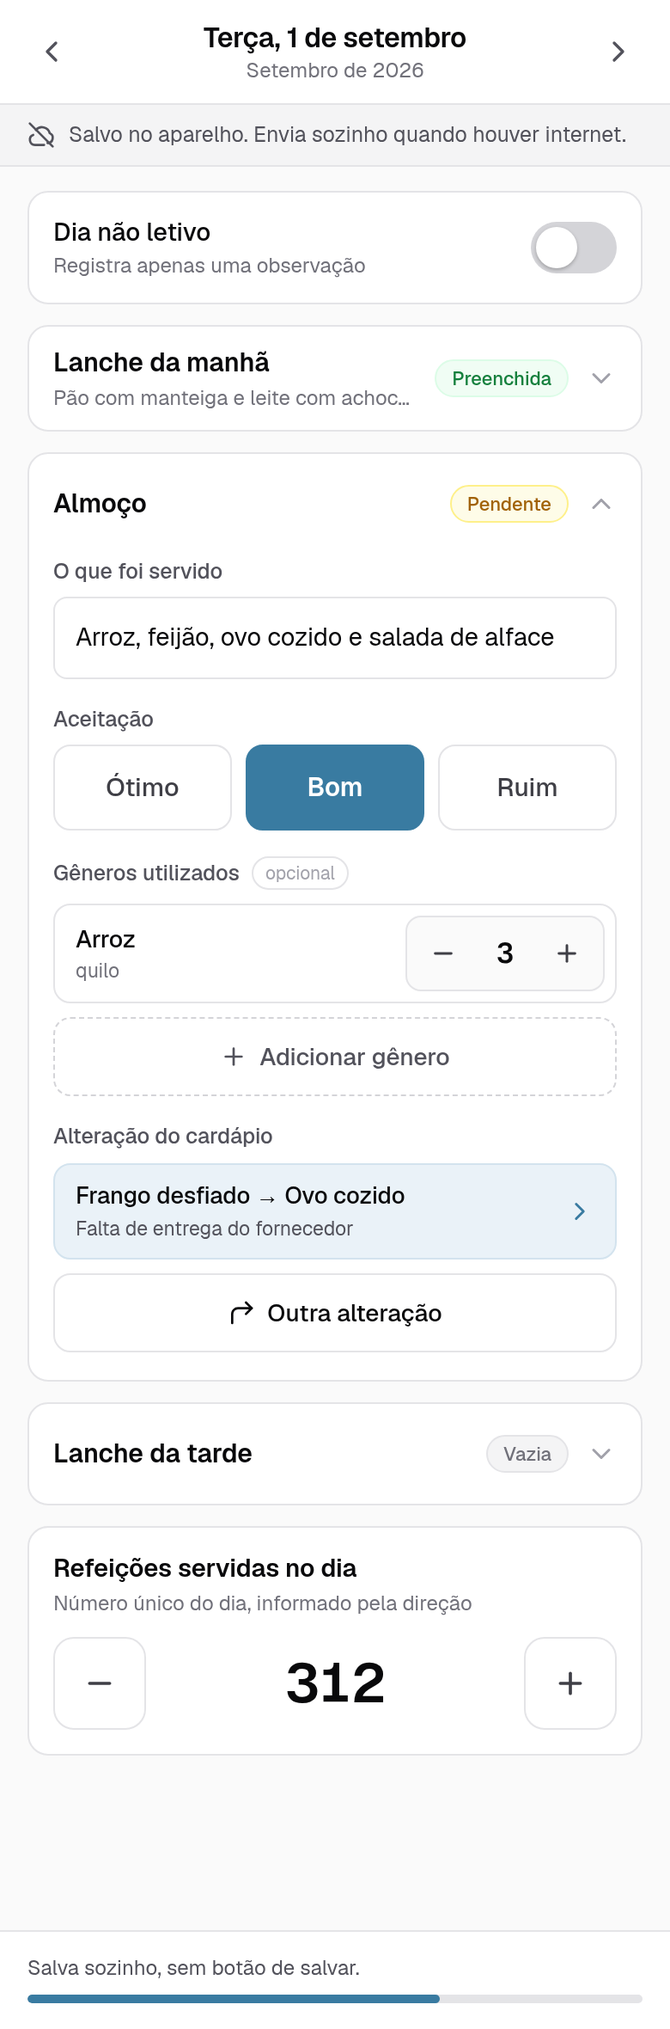
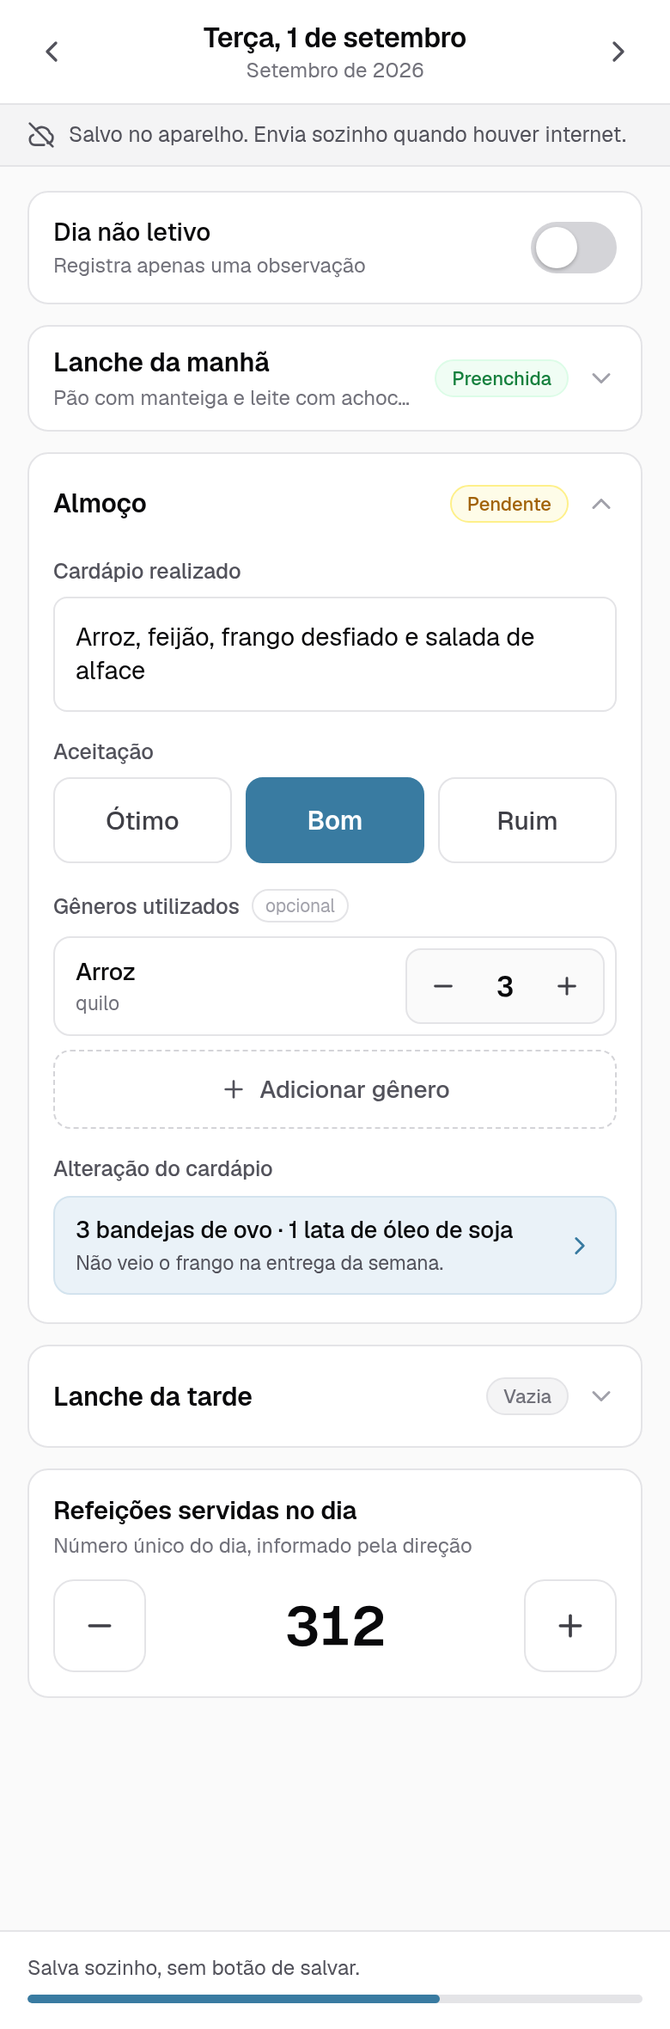
docs: corrige o registro de alteração do cardápio conforme o formulário oficial (closes #47) (#48)
A modelagem da E4 foi conferir o formulário oficial e desmentiu a US002.
Ela afirmava que a alteração tem três campos — item previsto, item servido
e justificativa — e que esse formato replicava o que elas escrevem à mão.
Não replica: o formulário pede os gêneros e as quantidades usados na troca
e uma justificativa em texto livre, e em nenhum lugar pergunta o que saiu.

A refeição passa a permanecer fiel ao cardápio previsto, na descrição e na
aceitação, mesmo quando houve troca — é essa permanência que dá sentido à
justificativa. O rótulo do campo virou "Cardápio realizado", como a coluna
do documento, porque "O que foi servido" prometia o contrário.

Some o botão "Outra alteração": a justificativa cobre a modificação inteira
e os gêneros são uma lista, então duas trocas na mesma refeição são um
registro só.

Alcance: US002 (histórias e backlog), decisão 8 da E3, telas 3 e 3a no
canvas versionado e os PNGs reexportados. A ideação da E1 fica como está —
é registro do que se imaginou na época, não requisito.

diff --git a/design/telas/AlteracaoCardapio.dc.html b/design/telas/AlteracaoCardapio.dc.html
@@ -30,48 +30,61 @@
 
   <div style="padding: 16px; display: flex; flex-direction: column; gap: 16px;">
 
-    <div style="display: flex; flex-direction: column; gap: 7px;">
-      <span style="font-size: 12.5px; font-weight: 500; color: #52525b;">Item previsto no cardápio</span>
-      <div style="min-height: 48px; border: 1px solid #e4e4e7; border-radius: 10px; padding: 13px 14px; font-size: 15px; background: #ffffff;">Frango desfiado</div>
+    <div style="display: flex; align-items: flex-start; gap: 8px; padding: 12px 14px; border-radius: 10px; background: #eaf2f8; border: 1px solid #d3e3ee; color: #3f3f46;">
+      <svg width="16" height="16" viewBox="0 0 24 24" fill="none" stroke="#397ba1" stroke-width="2" stroke-linecap="round" stroke-linejoin="round" style="flex-shrink: 0; margin-top: 1px;"><circle cx="12" cy="12" r="10"></circle><path d="M12 16v-4"></path><path d="M12 8h.01"></path></svg>
+      <span style="font-size: 12.5px; line-height: 1.45;">O almoço continua registrado como o cardápio previsto. Aqui vão só os gêneros que você usou no lugar.</span>
     </div>
 
-    <div style="display: flex; flex-direction: column; gap: 7px;">
-      <span style="font-size: 12.5px; font-weight: 500; color: #52525b;">Item servido no lugar</span>
-      <div style="min-height: 48px; border: 1px solid #e4e4e7; border-radius: 10px; padding: 13px 14px; font-size: 15px; background: #ffffff;">Ovo cozido</div>
+    <div style="display: flex; flex-direction: column; gap: 8px;">
+      <span style="font-size: 12.5px; font-weight: 500; color: #52525b;">Gêneros utilizados na troca</span>
+
+      <div style="display: flex; align-items: center; gap: 10px; min-height: 52px; border: 1px solid #e4e4e7; border-radius: 10px; padding: 6px 6px 6px 12px; background: #ffffff;">
+        <div style="flex-grow: 1; display: flex; flex-direction: column; gap: 2px; min-width: 0;">
+          <span style="font-size: 14px; font-weight: 500;">Ovo</span>
+          <span style="font-size: 11.5px; color: #71717a;">bandeja</span>
+        </div>
+        <div style="display: flex; align-items: center; gap: 2px; border: 1px solid #e4e4e7; border-radius: 9px; background: #fafafa; padding: 2px;">
+          <button style="width: 38px; height: 38px; display: flex; align-items: center; justify-content: center; border: none; background: transparent; border-radius: 7px; color: #3f3f46;"><svg width="16" height="16" viewBox="0 0 24 24" fill="none" stroke="currentColor" stroke-width="2.2" stroke-linecap="round"><path d="M5 12h14"></path></svg></button>
+          <span style="min-width: 30px; text-align: center; font-size: 16px; font-weight: 600; font-variant-numeric: tabular-nums;">3</span>
+          <button style="width: 38px; height: 38px; display: flex; align-items: center; justify-content: center; border: none; background: transparent; border-radius: 7px; color: #3f3f46;"><svg width="16" height="16" viewBox="0 0 24 24" fill="none" stroke="currentColor" stroke-width="2.2" stroke-linecap="round"><path d="M12 5v14"></path><path d="M5 12h14"></path></svg></button>
+        </div>
+      </div>
+
+      <div style="display: flex; align-items: center; gap: 10px; min-height: 52px; border: 1px solid #e4e4e7; border-radius: 10px; padding: 6px 6px 6px 12px; background: #ffffff;">
+        <div style="flex-grow: 1; display: flex; flex-direction: column; gap: 2px; min-width: 0;">
+          <span style="font-size: 14px; font-weight: 500;">Óleo de soja</span>
+          <span style="font-size: 11.5px; color: #71717a;">lata</span>
+        </div>
+        <div style="display: flex; align-items: center; gap: 2px; border: 1px solid #e4e4e7; border-radius: 9px; background: #fafafa; padding: 2px;">
+          <button style="width: 38px; height: 38px; display: flex; align-items: center; justify-content: center; border: none; background: transparent; border-radius: 7px; color: #3f3f46;"><svg width="16" height="16" viewBox="0 0 24 24" fill="none" stroke="currentColor" stroke-width="2.2" stroke-linecap="round"><path d="M5 12h14"></path></svg></button>
+          <span style="min-width: 30px; text-align: center; font-size: 16px; font-weight: 600; font-variant-numeric: tabular-nums;">1</span>
+          <button style="width: 38px; height: 38px; display: flex; align-items: center; justify-content: center; border: none; background: transparent; border-radius: 7px; color: #3f3f46;"><svg width="16" height="16" viewBox="0 0 24 24" fill="none" stroke="currentColor" stroke-width="2.2" stroke-linecap="round"><path d="M12 5v14"></path><path d="M5 12h14"></path></svg></button>
+        </div>
+      </div>
+
+      <button style="min-height: 46px; border: 1px dashed #d4d4d8; border-radius: 10px; background: transparent; color: #52525b; font-size: 14px; font-weight: 500; display: flex; align-items: center; justify-content: center; gap: 7px;"><svg width="16" height="16" viewBox="0 0 24 24" fill="none" stroke="currentColor" stroke-width="2" stroke-linecap="round"><path d="M12 5v14"></path><path d="M5 12h14"></path></svg>Adicionar gênero</button>
     </div>
 
     <div style="display: flex; flex-direction: column; gap: 8px;">
       <span style="font-size: 12.5px; font-weight: 500; color: #52525b;">Motivo</span>
-      <div style="background: #ffffff; border: 1px solid #e4e4e7; border-radius: 12px; display: flex; flex-direction: column;">
-        <button style="min-height: 54px; display: flex; align-items: center; gap: 12px; padding: 8px 14px; border: none; border-bottom: 1px solid #f4f4f5; background: transparent; text-align: left;">
-          <span style="width: 22px; height: 22px; border-radius: 999px; border: 7px solid #397ba1; background: #ffffff; flex-shrink: 0;"></span>
-          <span style="font-size: 14.5px; font-weight: 500;">Falta de entrega do fornecedor</span>
-        </button>
-        <button style="min-height: 54px; display: flex; align-items: center; gap: 12px; padding: 8px 14px; border: none; border-bottom: 1px solid #f4f4f5; background: transparent; text-align: left;">
-          <span style="width: 22px; height: 22px; border-radius: 999px; border: 2px solid #d4d4d8; background: #ffffff; flex-shrink: 0;"></span>
-          <span style="font-size: 14.5px; color: #3f3f46;">Item impróprio para o uso</span>
-        </button>
-        <button style="min-height: 54px; display: flex; align-items: center; gap: 12px; padding: 8px 14px; border: none; border-bottom: 1px solid #f4f4f5; background: transparent; text-align: left;">
-          <span style="width: 22px; height: 22px; border-radius: 999px; border: 2px solid #d4d4d8; background: #ffffff; flex-shrink: 0;"></span>
-          <span style="font-size: 14.5px; color: #3f3f46;">Quantidade insuficiente</span>
-        </button>
-        <button style="min-height: 54px; display: flex; align-items: center; gap: 12px; padding: 8px 14px; border: none; background: transparent; text-align: left;">
-          <span style="width: 22px; height: 22px; border-radius: 999px; border: 2px solid #d4d4d8; background: #ffffff; flex-shrink: 0;"></span>
-          <span style="font-size: 14.5px; color: #3f3f46;">Outro motivo</span>
-        </button>
+      <div style="min-height: 92px; border: 1px solid #e4e4e7; border-radius: 10px; padding: 13px 14px; font-size: 15px; line-height: 1.4; background: #ffffff;">Não veio o frango na entrega da semana.</div>
+      <div style="display: flex; flex-wrap: wrap; gap: 6px;">
+        <button style="min-height: 32px; border: 1px solid #e4e4e7; border-radius: 999px; background: #ffffff; color: #3f3f46; font-size: 12.5px; padding: 0 12px;">Falta de entrega do fornecedor</button>
+        <button style="min-height: 32px; border: 1px solid #e4e4e7; border-radius: 999px; background: #ffffff; color: #3f3f46; font-size: 12.5px; padding: 0 12px;">Item impróprio</button>
+        <button style="min-height: 32px; border: 1px solid #e4e4e7; border-radius: 999px; background: #ffffff; color: #3f3f46; font-size: 12.5px; padding: 0 12px;">Quantidade insuficiente</button>
       </div>
     </div>
 
     <div style="display: flex; align-items: flex-start; gap: 8px; padding: 12px 14px; border-radius: 10px; background: #f4f4f5; color: #52525b;">
       <svg width="16" height="16" viewBox="0 0 24 24" fill="none" stroke="currentColor" stroke-width="2" stroke-linecap="round" stroke-linejoin="round" style="flex-shrink: 0; margin-top: 1px;"><circle cx="12" cy="12" r="10"></circle><path d="M12 16v-4"></path><path d="M12 8h.01"></path></svg>
-      <span style="font-size: 12.5px; line-height: 1.45;">A troca sai no documento oficial com a justificativa, do jeito que a prefeitura pede.</span>
+      <span style="font-size: 12.5px; line-height: 1.45;">Os gêneros e o motivo saem no documento oficial, na coluna reservada às alterações.</span>
     </div>
 
   </div>
 
   <div style="margin-top: auto; background: #ffffff; border-top: 1px solid #e4e4e7; padding: 12px 16px 16px; display: grid; grid-template-columns: repeat(2, minmax(0, 1fr)); gap: 10px;">
     <button style="min-height: 50px; border: 1px solid #e4e4e7; border-radius: 10px; background: #ffffff; color: #09090b; font-size: 15px; font-weight: 500;">Cancelar</button>
-    <button style="min-height: 50px; border: none; border-radius: 10px; background: #397ba1; color: #ffffff; font-size: 15px; font-weight: 600;">Confirmar troca</button>
+    <button style="min-height: 50px; border: none; border-radius: 10px; background: #397ba1; color: #ffffff; font-size: 15px; font-weight: 600;">Confirmar alteração</button>
   </div>
 
 </div>

diff --git a/design/telas/Main.dc.html b/design/telas/Main.dc.html
@@ -72,7 +72,7 @@
           <sc-if value="{{manha.aberta}}" hint-placeholder-val="{{ true }}">
             <div style="padding: 2px 14px 16px; display: flex; flex-direction: column; gap: 15px;">
               <div style="display: flex; flex-direction: column; gap: 7px;">
-                <span style="font-size: 12.5px; font-weight: 500; color: #52525b;">O que foi servido</span>
+                <span style="font-size: 12.5px; font-weight: 500; color: #52525b;">Cardápio realizado</span>
                 <div style="min-height: 48px; border: 1px solid #e4e4e7; border-radius: 8px; padding: 13px 12px; font-size: 14.5px; line-height: 1.35; background: #ffffff; color: #09090b;">Pão com manteiga e leite com achocolatado</div>
               </div>
               <div style="display: flex; flex-direction: column; gap: 7px;">
@@ -122,7 +122,7 @@
             <div style="flex-grow: 1; display: flex; flex-direction: column; gap: 3px; min-width: 0;">
               <span style="font-size: 15px; font-weight: 600; color: #09090b;">Almoço</span>
               <sc-if value="{{almoco.fechada}}" hint-placeholder-val="{{ true }}">
-                <span style="font-size: 12px; color: #71717a; overflow: hidden; text-overflow: ellipsis; white-space: nowrap;">Arroz, feijão, ovo cozido e salada</span>
+                <span style="font-size: 12px; color: #71717a; overflow: hidden; text-overflow: ellipsis; white-space: nowrap;">Arroz, feijão, frango desfiado e salada</span>
               </sc-if>
             </div>
             <span style="font-size: 11px; font-weight: 500; padding: 3px 9px; border-radius: 999px; white-space: nowrap; background: #fefce8; color: #a16207; border: 1px solid #fef08a;">Pendente</span>
@@ -133,8 +133,8 @@
           <sc-if value="{{almoco.aberta}}" hint-placeholder-val="{{ true }}">
             <div style="padding: 2px 14px 16px; display: flex; flex-direction: column; gap: 15px;">
               <div style="display: flex; flex-direction: column; gap: 7px;">
-                <span style="font-size: 12.5px; font-weight: 500; color: #52525b;">O que foi servido</span>
-                <div style="min-height: 48px; border: 1px solid #e4e4e7; border-radius: 8px; padding: 13px 12px; font-size: 14.5px; line-height: 1.35; background: #ffffff; color: #09090b;">Arroz, feijão, ovo cozido e salada de alface</div>
+                <span style="font-size: 12.5px; font-weight: 500; color: #52525b;">Cardápio realizado</span>
+                <div style="min-height: 48px; border: 1px solid #e4e4e7; border-radius: 8px; padding: 13px 12px; font-size: 14.5px; line-height: 1.35; background: #ffffff; color: #09090b;">Arroz, feijão, frango desfiado e salada de alface</div>
               </div>
               <div style="display: flex; flex-direction: column; gap: 7px;">
                 <span style="font-size: 12.5px; font-weight: 500; color: #52525b;">Aceitação</span>
@@ -164,14 +164,13 @@
               </div>
               <div style="display: flex; flex-direction: column; gap: 8px;">
                 <span style="font-size: 12.5px; font-weight: 500; color: #52525b;">Alteração do cardápio</span>
-                <button style="min-height: 56px; display: flex; align-items: center; gap: 10px; padding: 9px 12px; border: 1px solid #d3e3ee; border-radius: 10px; background: #eaf2f8; text-align: left;">
+                <button style="min-height: 56px; display: flex; align-items: center; gap: 10px; padding: 10px 12px; border: 1px solid #d3e3ee; border-radius: 10px; background: #eaf2f8; text-align: left;">
                   <div style="flex-grow: 1; display: flex; flex-direction: column; gap: 3px; min-width: 0;">
-                    <span style="font-size: 13.5px; font-weight: 500; color: #09090b;">Frango desfiado → Ovo cozido</span>
-                    <span style="font-size: 11.5px; color: #52525b;">Falta de entrega do fornecedor</span>
+                    <span style="font-size: 13.5px; font-weight: 500; color: #09090b;">3 bandejas de ovo · 1 lata de óleo de soja</span>
+                    <span style="font-size: 11.5px; color: #52525b;">Não veio o frango na entrega da semana.</span>
                   </div>
                   <svg width="17" height="17" viewBox="0 0 24 24" fill="none" stroke="#397ba1" stroke-width="2" stroke-linecap="round" stroke-linejoin="round" style="flex-shrink: 0;"><path d="M9 18l6-6-6-6"></path></svg>
                 </button>
-                <button style="min-height: 46px; border: 1px solid #e4e4e7; border-radius: 10px; background: #ffffff; color: #09090b; font-size: 14px; font-weight: 500; display: flex; align-items: center; justify-content: center; gap: 7px;"><svg width="16" height="16" viewBox="0 0 24 24" fill="none" stroke="currentColor" stroke-width="2" stroke-linecap="round" stroke-linejoin="round"><path d="M16 3l5 5-5 5"></path><path d="M21 8H9a5 5 0 0 0-5 5v8"></path></svg>Outra alteração</button>
               </div>
             </div>
           </sc-if>
@@ -190,7 +189,7 @@
           <sc-if value="{{tarde.aberta}}" hint-placeholder-val="{{ true }}">
             <div style="padding: 2px 14px 16px; display: flex; flex-direction: column; gap: 15px;">
               <div style="display: flex; flex-direction: column; gap: 7px;">
-                <span style="font-size: 12.5px; font-weight: 500; color: #52525b;">O que foi servido</span>
+                <span style="font-size: 12.5px; font-weight: 500; color: #52525b;">Cardápio realizado</span>
                 <div style="min-height: 48px; border: 1px solid #e4e4e7; border-radius: 8px; padding: 13px 12px; font-size: 14.5px; line-height: 1.35; background: #ffffff; color: #a1a1aa;">Toque para escrever o que foi servido</div>
               </div>
               <div style="display: flex; flex-direction: column; gap: 7px;">

diff --git a/docs/02-requisitos/historias-de-usuario.md b/docs/02-requisitos/historias-de-usuario.md
@@ -35,16 +35,18 @@
 ### US002 — Alteração de cardápio com justificativa
 
 - **Requerente:** Merendeira
-- **Ação:** Como merendeira, quero registrar as trocas em relação ao cardápio oficial — item previsto, item servido no lugar e o motivo — para que o mapa documente a alteração no mesmo formato exigido hoje.
-- **Comentários:** Trocas acontecem por falha de fornecedor, falta de gênero etc. Como o cardápio é documento externo, é a merendeira quem aponta a alteração; o formato replica o que elas já escrevem à mão no mapa: item previsto, substituto e justificativa.
+- **Ação:** Como merendeira, quero registrar os gêneros e as quantidades que usei quando precisei mudar o cardápio, junto com o motivo, para que o mapa documente a alteração no mesmo formato exigido hoje.
+- **Comentários:** Trocas acontecem por falha de fornecedor, falta de gênero etc. A refeição continua descrevendo o cardápio previsto, inclusive quando houve troca — é essa permanência que dá sentido à justificativa: se a linha já fosse reescrita com o que foi servido, não haveria divergência aparente e não haveria o que justificar. O que a merendeira registra à parte são os gêneros e quantidades que entraram no lugar, e o motivo. **O item que saiu não é registrado**: o formulário oficial não o pede, e exigi-lo seria trabalho que o documento não usa. *(Redação corrigida na E4, quando a modelagem conferiu o formulário oficial — ver [decisões de modelagem](../04-banco-de-dados/decisoes-de-modelagem.md).)*
 - **Critérios de aceitação:**
-  - CA#1 O registro de alteração tem três campos: item previsto no cardápio, item servido e justificativa.
+  - CA#1 O registro de alteração tem os gêneros usados na troca, cada um com a sua quantidade (US003), e uma justificativa.
   - CA#2 Não é possível concluir uma alteração sem justificativa.
-  - CA#3 A alteração aparece destacada na revisão do dia e no documento gerado.
+  - CA#3 A descrição e a aceitação da refeição não mudam ao se registrar uma alteração.
+  - CA#4 A alteração aparece no cartão da refeição e no documento gerado, na coluna reservada a ela.
 - **Regras de negócio:**
   - RN#1 Toda divergência em relação ao cardápio oficial exige justificativa.
+  - RN#2 Há no máximo uma alteração por refeição: a justificativa cobre a modificação inteira e os gêneros são uma lista, então duas trocas na mesma refeição são um registro só.
 - **Requisitos não funcionais:**
-  - RNF#1 A justificativa aceita texto livre curto, com sugestões de motivos frequentes para reduzir digitação.
+  - RNF#1 A justificativa aceita texto livre, com sugestões de motivos frequentes para reduzir digitação.
 - **Prioridade:** A — **Pontos de história:** 3
 
 ### US003 — Quantidades em unidades inteiras padronizadas

diff --git a/docs/03-ux/decisoes-de-design.md b/docs/03-ux/decisoes-de-design.md
@@ -76,13 +76,17 @@
 
 **Histórias**: US009, US003.
 
-## 8. Alteração do cardápio aparece no cartão da refeição
+## 8. A alteração registra o que entrou, e aparece no cartão da refeição
 
-**Decisão**: depois de confirmada, a troca fica visível dentro do cartão da refeição — "item previsto → item servido" com o motivo abaixo, tocável para editar —, e o botão ao lado passa a ser "Outra alteração". Antes da primeira troca, o cartão mostra só o botão "Alteração do cardápio".
+**Decisão**: a linha da refeição **não muda** quando houve troca — ela continua sendo o cardápio previsto, com a sua aceitação. A alteração é um registro à parte, no máximo um por refeição, com os **gêneros e quantidades que foram usados na troca** e uma **justificativa em texto livre**. Depois de confirmada, ela fica visível dentro do cartão da refeição — os gêneros com as suas quantidades e o motivo abaixo, tocável para editar. Antes disso, o cartão mostra só o botão "Alteração do cardápio".
 
-**Por quê**: a troca e a justificativa são o que sai impresso no documento oficial (US002); se elas não aparecem no cartão, a merendeira não tem como conferir nem corrigir o que vai ser entregue — teria de abrir a tela de alteração no escuro para lembrar o que registrou.
+**Por quê**: é o que o formulário oficial pede. Ele tem uma coluna chamada *"em caso de alterações no cardápio, descreva os gêneros utilizados e as quantidades abaixo"* e, sob as três refeições, uma linha *"Mudança no cardápio, justificativa:"*. Em nenhum lugar ele pergunta qual item foi substituído. Manter a refeição fiel ao previsto é o que dá sentido ao registro: a divergência aparece na comparação entre a linha do cardápio e os gêneros da troca, e é isso que a justificativa explica.
 
-**Histórias**: US002, US007.
+A alteração precisa aparecer no cartão porque é o que sai impresso (US002); se não aparecesse, a merendeira teria de abrir a tela de alteração no escuro para lembrar o que registrou.
+
+**O que esta decisão desfez**: a primeira versão desta decisão mostrava "item previsto → item servido" no cartão e oferecia um botão "Outra alteração" para trocas sucessivas. As duas coisas vinham de uma leitura errada do formulário, herdada da US002 — corrigida na E4, quando a modelagem de dados foi conferir o documento que o sistema precisa produzir. Como a justificativa cobre a modificação inteira e os gêneros são uma lista, duas trocas na mesma refeição são um registro só, e o segundo botão deixou de ter função.
+
+**Histórias**: US002, US003, US007.
 
 ## 9. Menu: a porta do que não é fluxo diário
 

diff --git a/docs/02-requisitos/backlog.md b/docs/02-requisitos/backlog.md
@@ -14,7 +14,7 @@
 | ID    | História do usuário                                                                                                                                                          | Estimativa em pontos | Prioridade |
 | ----- | ---------------------------------------------------------------------------------------------------------------------------------------------------------------------------- | -------------------- | ---------- |
 | US001 | Como merendeira, quero registrar o mapa de qualquer dia de forma rápida e no momento que me for conveniente, para que o preenchimento caiba na minha rotina.                 | 5                    | A          |
-| US002 | Como merendeira, quero registrar as trocas em relação ao cardápio oficial — item previsto, item servido e motivo — para que o mapa documente a alteração no formato exigido. | 3                    | A          |
+| US002 | Como merendeira, quero registrar os gêneros e as quantidades que usei quando precisei mudar o cardápio, junto com o motivo, para que o mapa documente a alteração no formato exigido. | 3                    | A          |
 | US003 | Como merendeira, quero informar as quantidades dos gêneros em números inteiros na unidade padrão de cada item, para não digitar texto livre nem errar formato.               | 3                    | A          |
 | US004 | Como merendeira, quero registrar o grau de aceitação de cada refeição tocando em um de três botões (ótimo, bom ou ruim), para avaliar sem digitar nada.                      | 2                    | A          |
 | US005 | Como merendeira, quero informar o número de refeições servidas no dia em um único campo, para refletir o processo real da escola integral.                                   | 1                    | A          |

diff --git a/docs/03-ux/telas.md b/docs/03-ux/telas.md
@@ -40,13 +40,13 @@ As três refeições em cartões expansíveis, com aceitação em três botões,
 
 ![Registro do dia com a alteração registrada no cartão](../assets/e3-3-registro-do-dia-alteracao.png)
 
-Segundo estado da mesma tela: registrada a troca, ela aparece dentro do cartão da refeição — item previsto, item servido e motivo —, porque é isso que sai no documento oficial. **US002, US007.**
+Segundo estado da mesma tela: registrada a alteração, ela aparece dentro do cartão da refeição — os gêneros usados na troca, com as suas quantidades, e o motivo —, porque é isso que sai no documento oficial. A linha da refeição continua sendo o cardápio previsto. **US002, US003, US007.**
 
 ### 3a · Alteração do cardápio
 
 ![Alteração do cardápio](../assets/e3-3a-alteracao-do-cardapio.png)
 
-Item previsto, item servido e o motivo da troca. **US002.**
+Os gêneros usados na troca, com as suas quantidades, e o motivo em texto livre. O item que saiu não é registrado — o formulário oficial não o pede (ver [decisão 8](decisoes-de-design.md)). **US002, US003.**
 
 ### 3b · Escolher gênero
 
